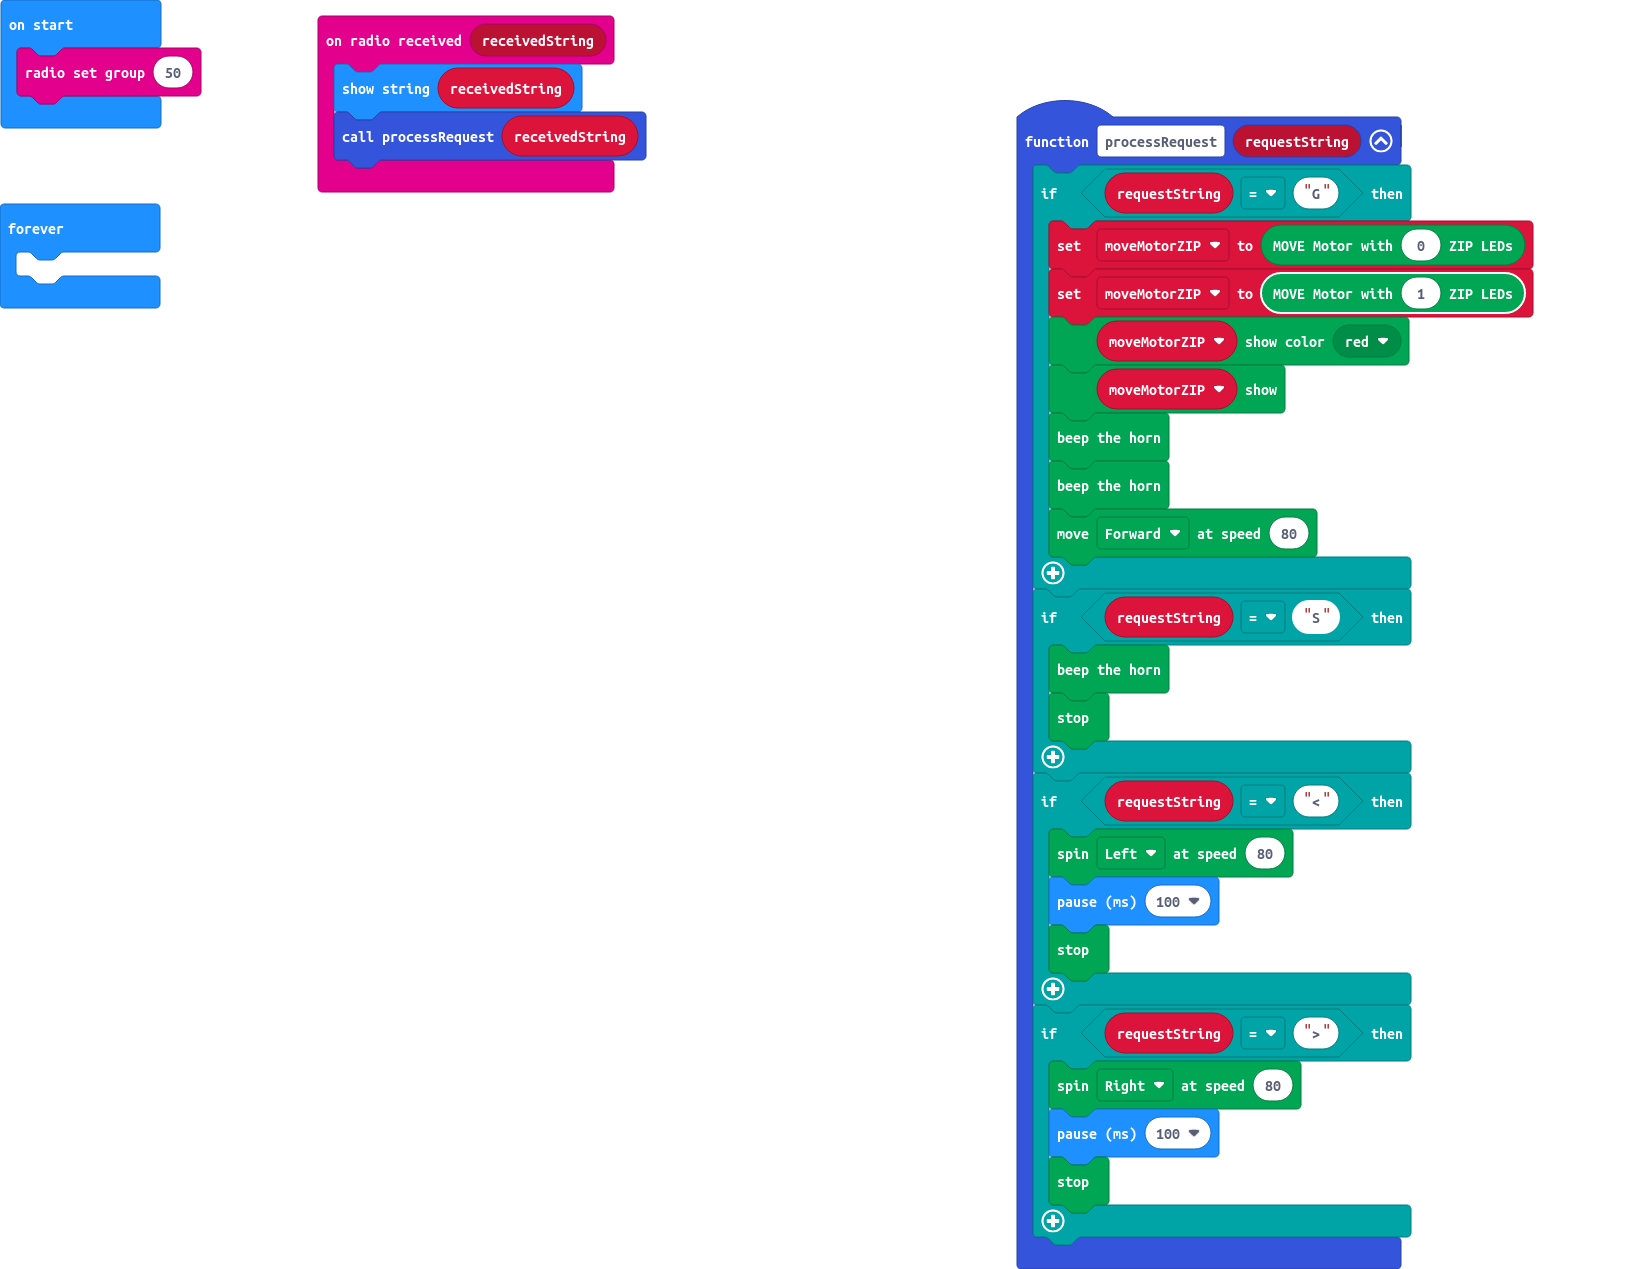
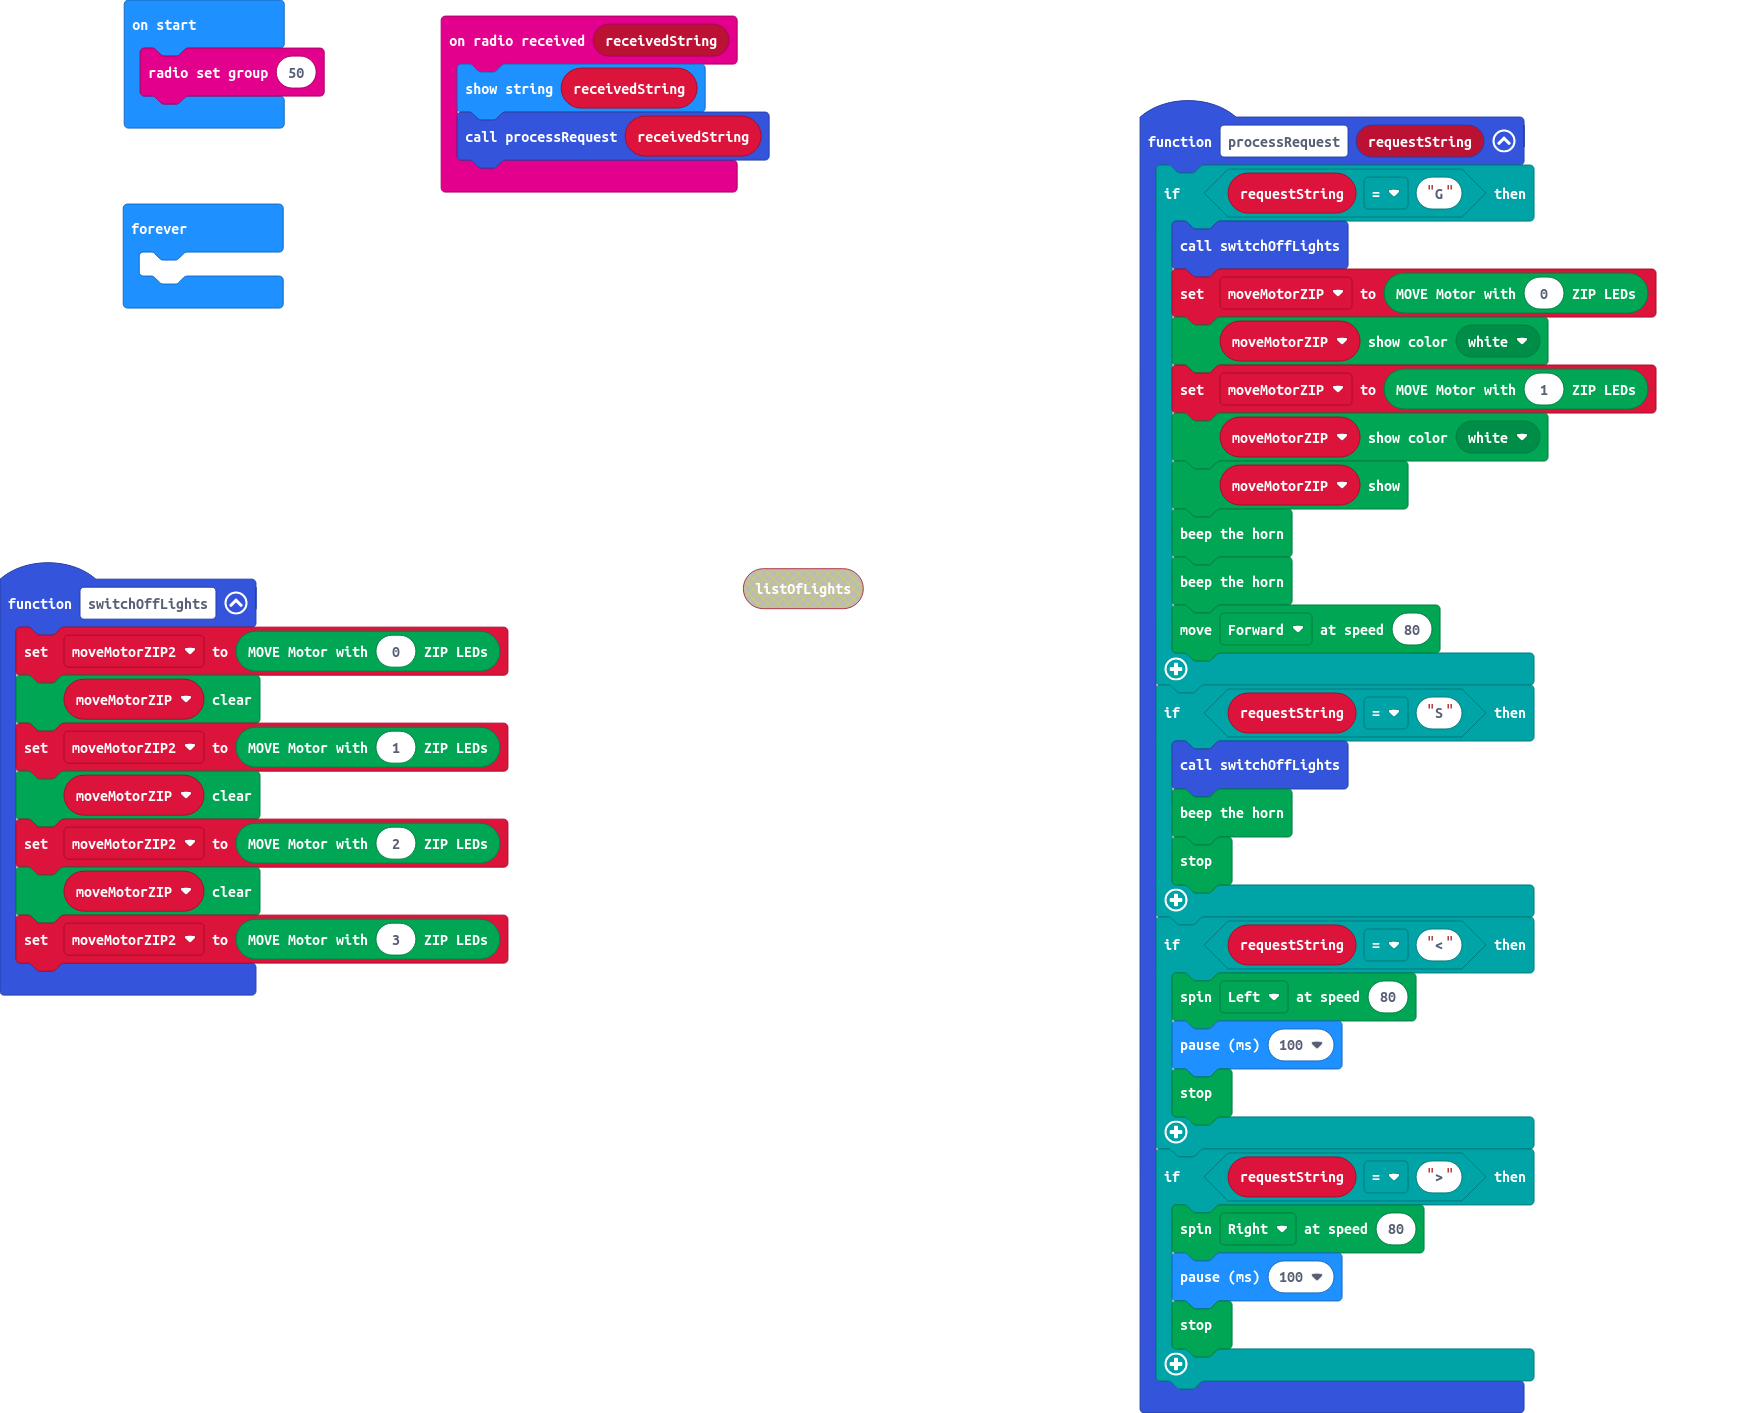
manage lights

diff --git a/main.ts b/main.ts
@@ -1,14 +1,17 @@
 function processRequest (requestString: string) {
     if (requestString == "G") {
+        switchOffLights()
         moveMotorZIP = Kitronik_Move_Motor.createMoveMotorZIPLED(0)
+        moveMotorZIP.showColor(Kitronik_Move_Motor.colors(Kitronik_Move_Motor.ZipLedColors.White))
         moveMotorZIP = Kitronik_Move_Motor.createMoveMotorZIPLED(1)
-        moveMotorZIP.showColor(Kitronik_Move_Motor.colors(Kitronik_Move_Motor.ZipLedColors.Red))
+        moveMotorZIP.showColor(Kitronik_Move_Motor.colors(Kitronik_Move_Motor.ZipLedColors.White))
         moveMotorZIP.show()
         Kitronik_Move_Motor.beepHorn()
         Kitronik_Move_Motor.beepHorn()
         Kitronik_Move_Motor.move(Kitronik_Move_Motor.DriveDirections.Forward, 80)
     }
     if (requestString == "S") {
+        switchOffLights()
         Kitronik_Move_Motor.beepHorn()
         Kitronik_Move_Motor.stop()
     }
@@ -23,10 +26,20 @@ function processRequest (requestString: string) {
         Kitronik_Move_Motor.stop()
     }
 }
+function switchOffLights () {
+    moveMotorZIP2 = Kitronik_Move_Motor.createMoveMotorZIPLED(0)
+    moveMotorZIP.clear()
+    moveMotorZIP2 = Kitronik_Move_Motor.createMoveMotorZIPLED(1)
+    moveMotorZIP.clear()
+    moveMotorZIP2 = Kitronik_Move_Motor.createMoveMotorZIPLED(2)
+    moveMotorZIP.clear()
+    moveMotorZIP2 = Kitronik_Move_Motor.createMoveMotorZIPLED(3)
+}
 radio.onReceivedString(function (receivedString) {
     basic.showString(receivedString)
     processRequest(receivedString)
 })
+let moveMotorZIP2: Kitronik_Move_Motor.MoveMotorZIP = null
 let moveMotorZIP: Kitronik_Move_Motor.MoveMotorZIP = null
 radio.setGroup(50)
 basic.forever(function () {
